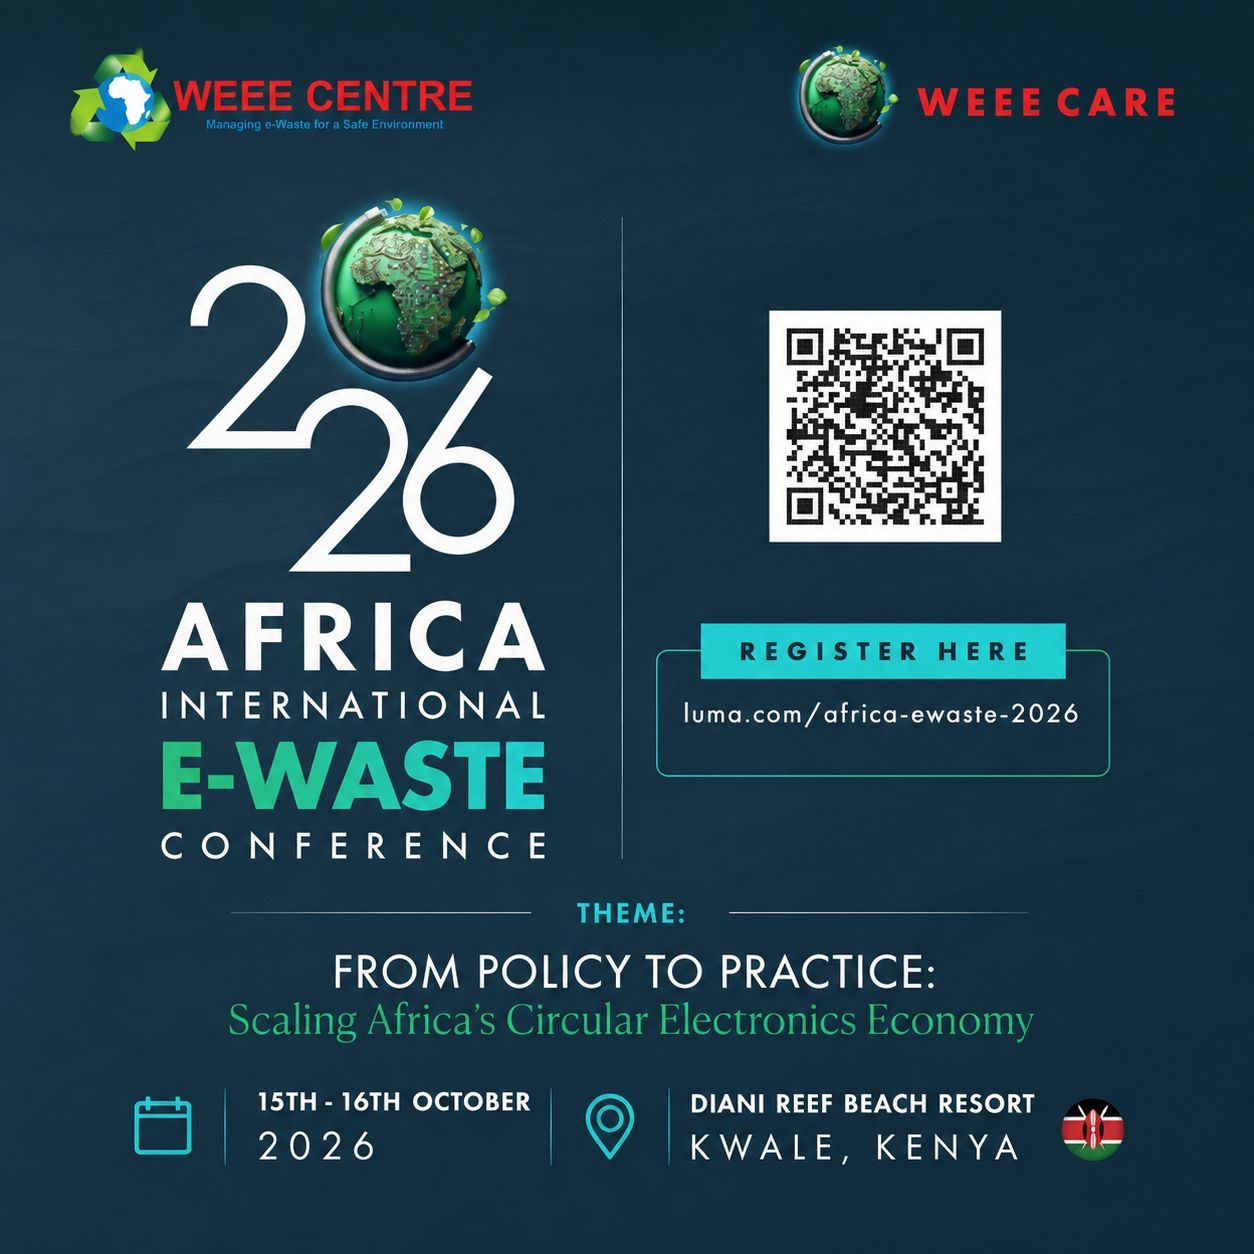
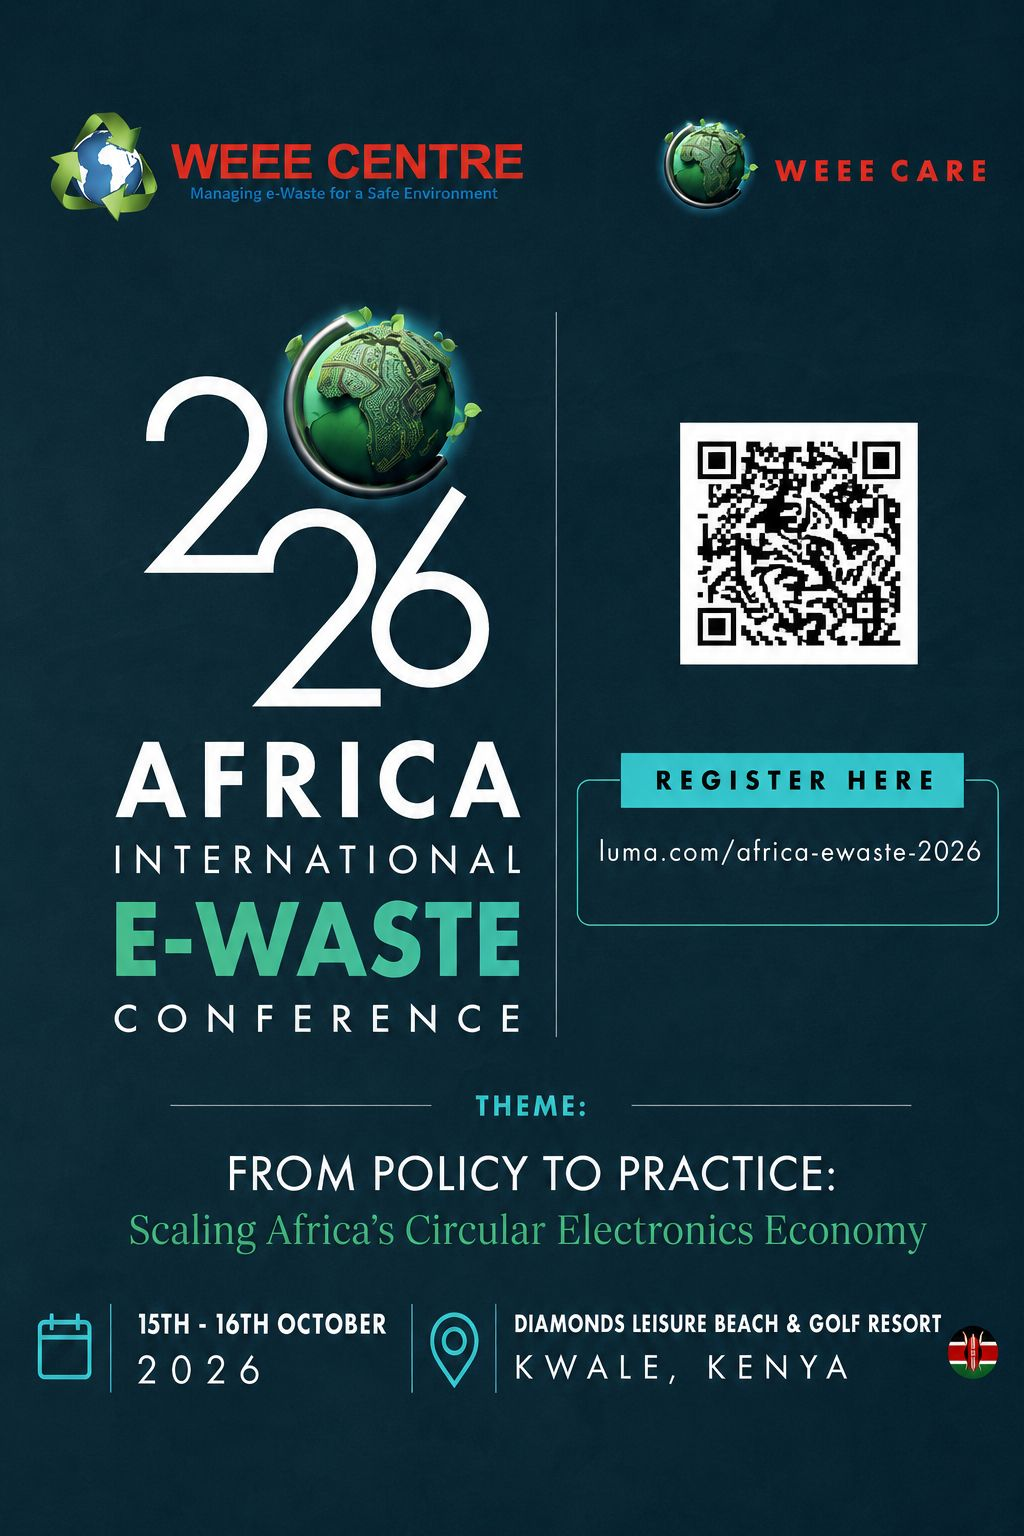
Update on Conference Location

diff --git a/src/routes/__root.tsx b/src/routes/__root.tsx
@@ -77,10 +77,10 @@ export const Route = createRootRouteWithContext<{ queryClient: QueryClient }>()(
     meta: [
       { charSet: "utf-8" },
       { name: "viewport", content: "width=device-width, initial-scale=1" },
-      { title: "EcoCycle Solutions — Responsible E-Waste Management" },
+      { title: "Weee Centre — Managing e-Waste for a Safe Environment" },
       { name: "description", content: "Secure e-waste collection, data destruction, IT asset disposal, and electronics recycling for businesses, institutions, and households." },
-      { name: "author", content: "EcoCycle Solutions" },
-      { property: "og:title", content: "EcoCycle Solutions — Responsible E-Waste Management" },
+      { name: "author", content: "Weee Centre" },
+      { property: "og:title", content: "Weee Centre — Managing e-Waste for a Safe Environment" },
       { property: "og:description", content: "Secure e-waste collection, data destruction, ITAD, and electronics recycling." },
       { property: "og:type", content: "website" },
       { name: "twitter:card", content: "summary_large_image" },

diff --git a/src/data/events.ts b/src/data/events.ts
@@ -34,7 +34,7 @@ export const events: EventItem[] = [
     type: "Conference",
     date: "Oct 15 – 16, 2026",
     time: "9:00 AM – 5:00 PM",
-    location: "Diani Reef Beach Resort, Kwale, Kenya",
+    location: "Diamonds Leisure Beach & Golf Resort",
     audience: "Enterprise & Government",
     description:
       "The 6th Africa International E-Waste Conference is Africa's premier platform for advancing sustainable electronics management and the circular economy. Bringing together policymakers, regulators, industry leaders, development partners, academia, innovators, investors, and youth, the conference will showcase practical solutions that transform e-waste into opportunities for green industrialization, investment, job creation, and climate action.",
